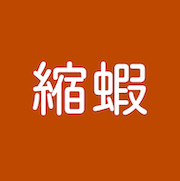
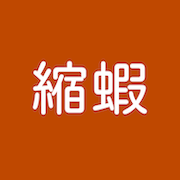
更新圖片大小

diff --git a/vite.config.js b/vite.config.js
@@ -20,12 +20,6 @@ export default defineConfig({
           src: 'pwa-512x512.png',
           sizes: '512x512',
           type: 'image/png'
-        },
-        {
-          src: 'pwa-512x512.png',
-          sizes: '512x512',
-          type: 'image/png',
-          purpose: 'any maskable',
         }
       ]
     }
